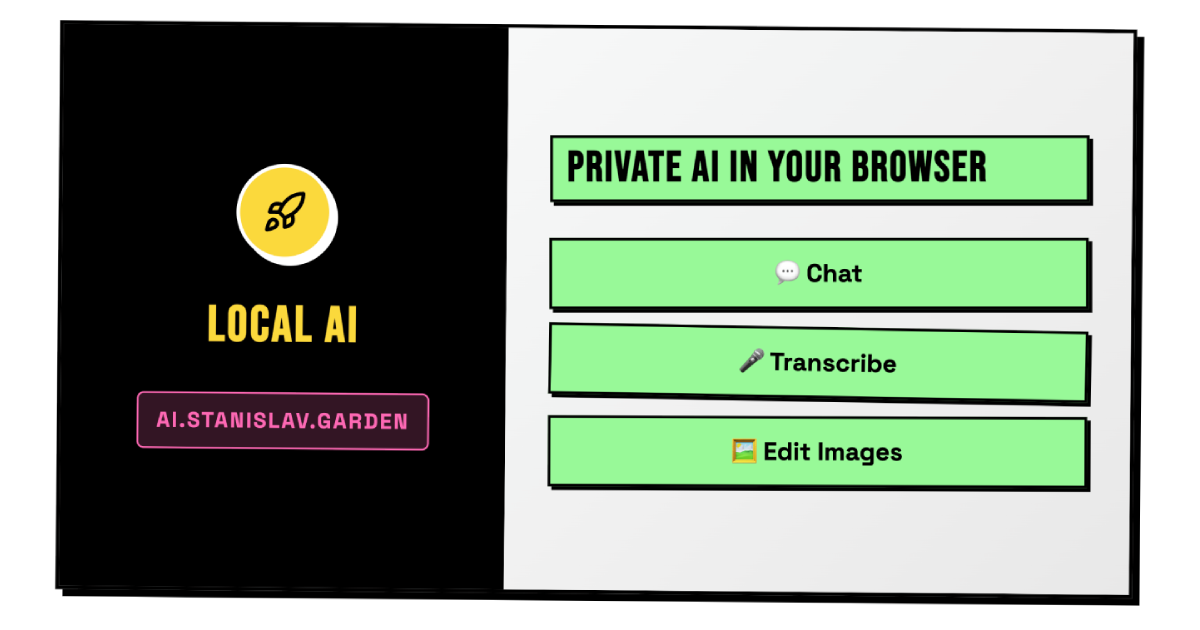
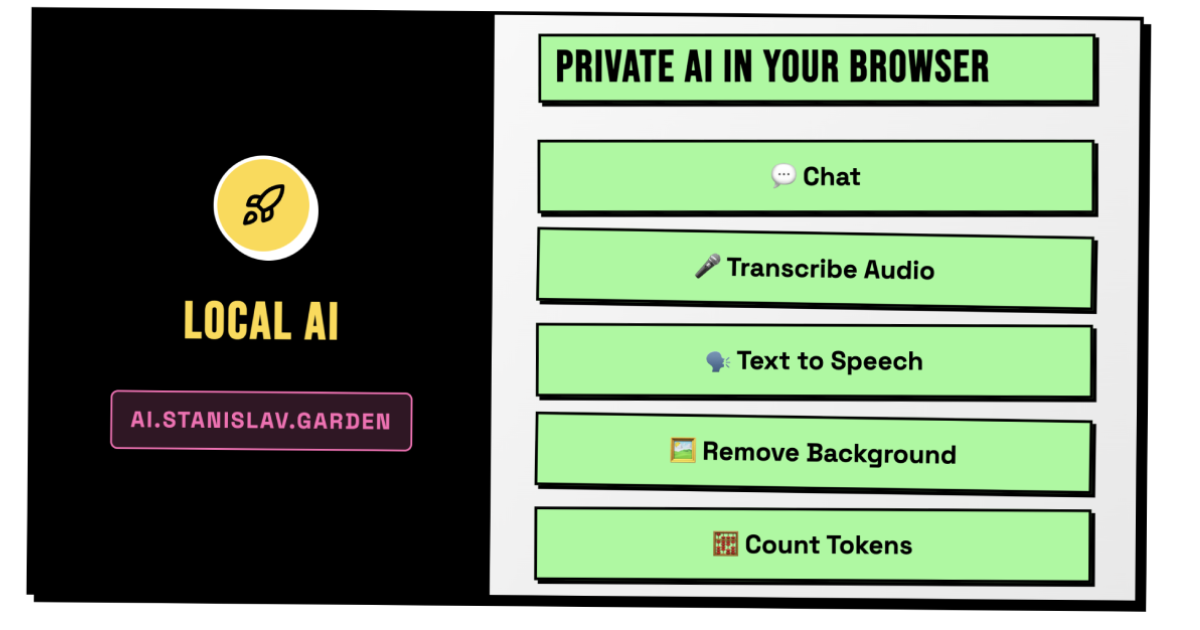
wip

diff --git a/src/routes/(apps)/og/+page.svelte b/src/routes/(apps)/og/+page.svelte
@@ -32,7 +32,7 @@
 							<BrainIcon />
 						</div>
 						<h1>Local AI</h1>
-						<p>Private AI Tools</p>
+						<p>Chat • Transcribe • Text to Speech • Background Remover • Count Tokens</p>
 						<div class="url">ai.stanislav.garden</div>
 					</div>
 				</div>
@@ -53,8 +53,10 @@
 						<h2>Private AI in Your Browser</h2>
 						<div class="features">
 							<span>💬 Chat</span>
-							<span>🎤 Transcribe</span>
-							<span>🖼 Edit Images</span>
+							<span>🎤 Transcribe Audio</span>
+							<span>🗣 Text to Speech</span>
+							<span>🖼 Remove Background</span>
+							<span>🧮 Count Tokens</span>
 						</div>
 					</div>
 				</div>
@@ -72,7 +74,7 @@
 					</div>
 					<div class="main">
 						<h1>Local AI Tools</h1>
-						<p>Run AI models completely offline</p>
+						<p>Run offline: Chat • Transcribe • TTS • Background • Tokens</p>
 					</div>
 					<div class="footer">
 						<span class="url">ai.stanislav.garden</span>
@@ -323,6 +325,14 @@
 
 	.layout-2 .features span:nth-child(3) {
 		transform: rotate(-0.3deg);
+	}
+
+	.layout-2 .features span:nth-child(4) {
+		transform: rotate(0.4deg);
+	}
+
+	.layout-2 .features span:nth-child(5) {
+		transform: rotate(-0.2deg);
 	}
 
 	/* Layout 3: Clean Focus */
